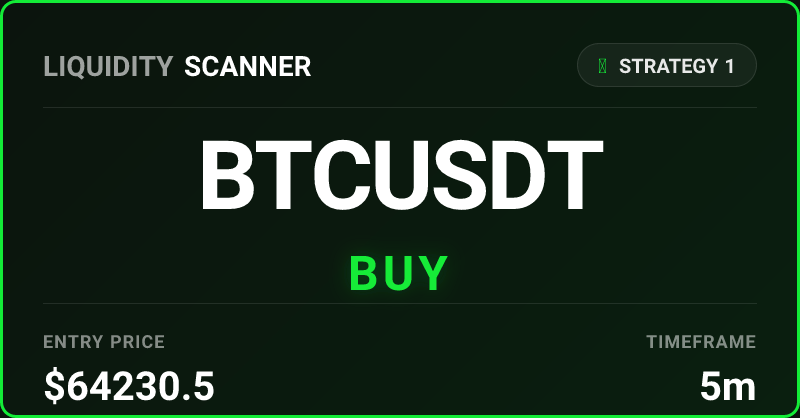
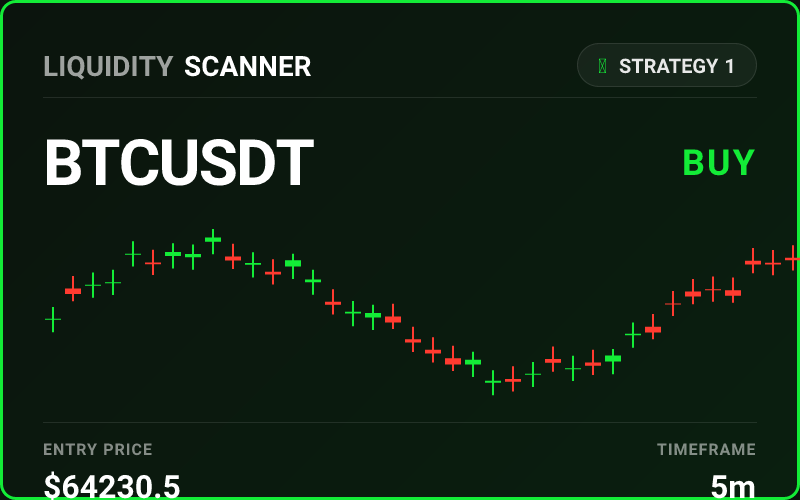
feat: add beautiful dynamic candlestick chart to telegram signal notifications

diff --git a/liquidityscan-web/backend/src/telegram/telegram.service.ts b/liquidityscan-web/backend/src/telegram/telegram.service.ts
@@ -6,6 +6,7 @@ import { html } from 'satori-html';
 import { Resvg } from '@resvg/resvg-js';
 import * as fs from 'fs';
 import * as path from 'path';
+import { CandlesService, CandleDto } from '../candles/candles.service';
 
 @Injectable()
 export class TelegramService implements OnModuleInit, OnModuleDestroy {
@@ -14,7 +15,10 @@ export class TelegramService implements OnModuleInit, OnModuleDestroy {
     private readonly isEnabled: boolean;
     private fontBuffer: Buffer | null = null;
 
-    constructor(private readonly prisma: PrismaService) {
+    constructor(
+        private readonly prisma: PrismaService,
+        private readonly candlesService: CandlesService
+    ) {
         const token = process.env.TELEGRAM_BOT_TOKEN;
         this.isEnabled = !!token;
 
@@ -71,6 +75,42 @@ export class TelegramService implements OnModuleInit, OnModuleDestroy {
         }
     }
 
+    private generateSvgChart(candles: CandleDto[], width: number, height: number, signalColor: string): string {
+        if (!candles || candles.length === 0) return '';
+        const min = Math.min(...candles.map(c => c.low));
+        const max = Math.max(...candles.map(c => c.high));
+        const range = max - min || 1;
+        const padding = range * 0.1;
+        const actualMin = min - padding;
+        const actualMax = max + padding;
+        const actualRange = actualMax - actualMin;
+
+        const candleWidth = width / candles.length;
+        const spacing = candleWidth * 0.2;
+        const rectWidth = candleWidth - spacing;
+
+        let svgHtml = `<svg width="${width}" height="${height}" viewBox="0 0 ${width} ${height}" style="display: flex;">`;
+
+        candles.forEach((c, i) => {
+            const x = i * candleWidth + spacing / 2;
+            const color = c.close >= c.open ? '#13ec37' : '#ff3b30';
+
+            const yHigh = height - ((c.high - actualMin) / actualRange) * height;
+            const yLow = height - ((c.low - actualMin) / actualRange) * height;
+            const yOpen = height - ((c.open - actualMin) / actualRange) * height;
+            const yClose = height - ((c.close - actualMin) / actualRange) * height;
+
+            const rectY = Math.min(yOpen, yClose);
+            const rectH = Math.max(Math.abs(yClose - yOpen), 1);
+
+            svgHtml += `<line x1="${x + rectWidth / 2}" y1="${yHigh}" x2="${x + rectWidth / 2}" y2="${yLow}" stroke="${color}" stroke-width="2" />`;
+            svgHtml += `<rect x="${x}" y="${rectY}" width="${rectWidth}" height="${rectH}" fill="${color}" />`;
+        });
+
+        svgHtml += `</svg>`;
+        return svgHtml;
+    }
+
     /**
      * Generates a beautiful "Trading Card" style image for the signal using Satori & resvg-js.
      */
@@ -87,45 +127,54 @@ export class TelegramService implements OnModuleInit, OnModuleDestroy {
         const color = isBuy ? '#13ec37' : '#ff3b30'; // Primary green / Red
         const bgGradientStart = isBuy ? '#0a1f0f' : '#1f0a0a';
 
-        const markup = html`
-            <div style="display: flex; flex-direction: column; width: 800px; height: 418px; background: linear-gradient(135deg, #0b140d 0%, ${bgGradientStart} 100%); color: white; padding: 40px; font-family: 'Roboto'; border: 2px solid #1f2923; box-sizing: border-box;">
-                <div style="display: flex; justify-content: space-between; align-items: center; border-bottom: 1px solid rgba(255,255,255,0.1); padding-bottom: 20px; width: 100%;">
+        const candles = await this.candlesService.getKlines(symbol, timeframe, 50);
+        const chartHtml = this.generateSvgChart(candles, 800, 200, color);
+
+        const markupHtml = `
+            <div style="display: flex; flex-direction: column; width: 800px; height: 500px; background: linear-gradient(135deg, #0b140d 0%, ${bgGradientStart} 100%); color: white; padding: 40px; font-family: 'Roboto'; border: 3px solid ${color}; box-sizing: border-box; border-radius: 16px;">
+                <div style="display: flex; justify-content: space-between; align-items: center; border-bottom: 1px solid rgba(255,255,255,0.1); padding-bottom: 10px; width: 100%;">
                     <div style="display: flex; align-items: center;">
-                        <span style="font-size: 24px; font-weight: bold; color: rgba(255,255,255,0.6); margin-right: 10px;">LIQUIDITY</span>
-                        <span style="font-size: 24px; font-weight: bold; color: white;">SCANNER</span>
+                        <span style="font-size: 28px; font-weight: bold; color: rgba(255,255,255,0.6); margin-right: 10px;">LIQUIDITY</span>
+                        <span style="font-size: 28px; font-weight: bold; color: white;">SCANNER</span>
                     </div>
-                    <div style="display: flex; align-items: center; background: rgba(255,255,255,0.05); padding: 5px 15px; border-radius: 20px; border: 1px solid rgba(255,255,255,0.1);">
-                        <span style="font-size: 16px; color: ${color}; font-weight: bold; margin-right: 8px;">•</span>
-                        <span style="font-size: 16px; color: rgba(255,255,255,0.8);">${strategyType.replace('_', ' ')}</span>
+                    <div style="display: flex; align-items: center; background: rgba(255,255,255,0.05); padding: 8px 20px; border-radius: 30px; border: 1px solid rgba(255,255,255,0.1);">
+                        <span style="font-size: 20px; color: ${color}; font-weight: bold; margin-right: 12px;">●</span>
+                        <span style="font-size: 20px; color: rgba(255,255,255,0.9);">${strategyType.replace('_', ' ')}</span>
                     </div>
                 </div>
                 
-                <div style="display: flex; flex-direction: column; flex-grow: 1; justify-content: center; align-items: center; width: 100%;">
-                    <div style="display: flex; font-size: 80px; font-weight: bold; letter-spacing: -2px; margin-bottom: 10px; color: white;">
+                <div style="display: flex; justify-content: space-between; align-items: center; width: 100%; margin-top: 20px;">
+                     <div style="display: flex; font-size: 64px; font-weight: bold; letter-spacing: -2px; color: white;">
                         ${symbol}
                     </div>
-                    <div style="display: flex; font-size: 40px; font-weight: bold; color: ${color}; letter-spacing: 2px;">
-                        ${signalType}
+                    <div style="display: flex; font-size: 36px; font-weight: bold; color: ${color}; letter-spacing: 2px;">
+                        ${signalType.replace('_SIGNAL', '')}
                     </div>
                 </div>
 
-                <div style="display: flex; justify-content: space-between; align-items: flex-end; width: 100%; border-top: 1px solid rgba(255,255,255,0.1); padding-top: 20px;">
+                <div style="display: flex; width: 100%; height: 200px; margin-top: 10px;">
+                    ${chartHtml}
+                </div>
+
+                <div style="display: flex; justify-content: space-between; align-items: flex-end; width: 100%; border-top: 1px solid rgba(255,255,255,0.1); padding-top: 15px; margin-top: 10px;">
                     <div style="display: flex; flex-direction: column;">
-                        <span style="font-size: 16px; color: rgba(255,255,255,0.5); margin-bottom: 5px;">ENTRY PRICE</span>
+                        <span style="font-size: 16px; color: rgba(255,255,255,0.5); margin-bottom: 5px; letter-spacing: 1px;">ENTRY PRICE</span>
                         <span style="font-size: 32px; font-weight: bold; color: white;">$${price}</span>
                     </div>
                     <div style="display: flex; flex-direction: column; align-items: flex-end;">
-                        <span style="font-size: 16px; color: rgba(255,255,255,0.5); margin-bottom: 5px;">TIMEFRAME</span>
+                        <span style="font-size: 16px; color: rgba(255,255,255,0.5); margin-bottom: 5px; letter-spacing: 1px;">TIMEFRAME</span>
                         <span style="font-size: 32px; font-weight: bold; color: white;">${timeframe}</span>
                     </div>
                 </div>
             </div>
         `;
 
+        const markup = html(markupHtml as any);
+
         try {
-            const svg = await satori(markup as any, {
+            const svg = await satori(markup, {
                 width: 800,
-                height: 418,
+                height: 500,
                 fonts: [
                     {
                         name: 'Roboto',

diff --git a/liquidityscan-web/backend/test_satori.js b/liquidityscan-web/backend/test_satori.js
@@ -4,6 +4,43 @@ const { Resvg } = require('@resvg/resvg-js');
 const fs = require('fs');
 const path = require('path');
 
+function generateSvgChart(candles, width, height) {
+    if (!candles || candles.length === 0) return '';
+    const min = Math.min(...candles.map(c => c.low));
+    const max = Math.max(...candles.map(c => c.high));
+    const range = max - min || 1;
+    const padding = range * 0.1;
+    const actualMin = min - padding;
+    const actualMax = max + padding;
+    const actualRange = actualMax - actualMin;
+
+    const candleWidth = width / candles.length;
+    const spacing = candleWidth * 0.2;
+    const rectWidth = candleWidth - spacing;
+
+    let svgHtml = `<svg width="${width}" height="${height}" viewBox="0 0 ${width} ${height}" style="display: flex;">`;
+
+    candles.forEach((c, i) => {
+        const x = i * candleWidth + spacing / 2;
+        const color = c.close >= c.open ? '#13ec37' : '#ff3b30';
+
+        const yHigh = height - ((c.high - actualMin) / actualRange) * height;
+        const yLow = height - ((c.low - actualMin) / actualRange) * height;
+        const yOpen = height - ((c.open - actualMin) / actualRange) * height;
+        const yClose = height - ((c.close - actualMin) / actualRange) * height;
+
+        const rectY = Math.min(yOpen, yClose);
+        const rectH = Math.max(Math.abs(yClose - yOpen), 1);
+
+        svgHtml += `<line x1="${x + rectWidth / 2}" y1="${yHigh}" x2="${x + rectWidth / 2}" y2="${yLow}" stroke="${color}" stroke-width="2" />`;
+        svgHtml += `<rect x="${x}" y="${rectY}" width="${rectWidth}" height="${rectH}" fill="${color}" />`;
+    });
+
+    svgHtml += `</svg>`;
+    return svgHtml;
+}
+
+
 async function testCard() {
     const symbol = 'BTCUSDT';
     const strategyType = 'STRATEGY_1';
@@ -11,15 +48,27 @@ async function testCard() {
     const signalType = 'BUY_SIGNAL';
     const price = 64230.5;
 
+    const mockCandles = Array.from({ length: 40 }).map((_, i) => {
+        const base = 64000 + Math.sin(i / 5) * 500 + (Math.random() * 200 - 100);
+        return {
+            open: base,
+            close: base + (Math.random() * 100 - 50),
+            high: base + 100,
+            low: base - 100
+        };
+    });
+
     const fontBuffer = fs.readFileSync(path.join(__dirname, 'src/telegram/Roboto-Bold.ttf'));
 
     const isBuy = signalType.includes('BUY');
     const color = isBuy ? '#13ec37' : '#ff3b30';
     const bgGradientStart = isBuy ? '#0a1f0f' : '#1f0a0a';
 
-    const markup = html`
-        <div style="display: flex; flex-direction: column; width: 800px; height: 418px; background: linear-gradient(135deg, #0b140d 0%, ${bgGradientStart} 100%); color: white; padding: 40px; font-family: 'Roboto'; border: 3px solid ${color}; box-sizing: border-box; border-radius: 16px;">
-            <div style="display: flex; justify-content: space-between; align-items: center; border-bottom: 1px solid rgba(255,255,255,0.1); padding-bottom: 20px; width: 100%;">
+    const chartHtml = generateSvgChart(mockCandles, 800, 200);
+
+    const markupHTML = `
+        <div style="display: flex; flex-direction: column; width: 800px; height: 500px; background: linear-gradient(135deg, #0b140d 0%, ${bgGradientStart} 100%); color: white; padding: 40px; font-family: 'Roboto'; border: 3px solid ${color}; box-sizing: border-box; border-radius: 16px;">
+            <div style="display: flex; justify-content: space-between; align-items: center; border-bottom: 1px solid rgba(255,255,255,0.1); padding-bottom: 10px; width: 100%;">
                 <div style="display: flex; align-items: center;">
                     <span style="font-size: 28px; font-weight: bold; color: rgba(255,255,255,0.6); margin-right: 10px;">LIQUIDITY</span>
                     <span style="font-size: 28px; font-weight: bold; color: white;">SCANNER</span>
@@ -30,31 +79,37 @@ async function testCard() {
                 </div>
             </div>
             
-            <div style="display: flex; flex-direction: column; flex-grow: 1; justify-content: center; align-items: center; width: 100%;">
-                <div style="display: flex; font-size: 96px; font-weight: bold; letter-spacing: -3px; margin-bottom: 5px; color: white;">
+            <div style="display: flex; justify-content: space-between; align-items: center; width: 100%; margin-top: 20px;">
+                 <div style="display: flex; font-size: 64px; font-weight: bold; letter-spacing: -2px; color: white;">
                     ${symbol}
                 </div>
-                <div style="display: flex; font-size: 48px; font-weight: bold; color: ${color}; letter-spacing: 4px; text-shadow: 0 0 20px ${color}40;">
+                <div style="display: flex; font-size: 36px; font-weight: bold; color: ${color}; letter-spacing: 2px;">
                     ${signalType.replace('_SIGNAL', '')}
                 </div>
             </div>
 
-            <div style="display: flex; justify-content: space-between; align-items: flex-end; width: 100%; border-top: 1px solid rgba(255,255,255,0.1); padding-top: 25px;">
+            <div style="display: flex; width: 100%; height: 200px; margin-top: 10px;">
+                ${chartHtml}
+            </div>
+
+            <div style="display: flex; justify-content: space-between; align-items: flex-end; width: 100%; border-top: 1px solid rgba(255,255,255,0.1); padding-top: 15px; margin-top: 10px;">
                 <div style="display: flex; flex-direction: column;">
-                    <span style="font-size: 18px; color: rgba(255,255,255,0.5); margin-bottom: 5px; letter-spacing: 1px;">ENTRY PRICE</span>
-                    <span style="font-size: 40px; font-weight: bold; color: white;">$${price}</span>
+                    <span style="font-size: 16px; color: rgba(255,255,255,0.5); margin-bottom: 5px; letter-spacing: 1px;">ENTRY PRICE</span>
+                    <span style="font-size: 32px; font-weight: bold; color: white;">$${price}</span>
                 </div>
                 <div style="display: flex; flex-direction: column; align-items: flex-end;">
-                    <span style="font-size: 18px; color: rgba(255,255,255,0.5); margin-bottom: 5px; letter-spacing: 1px;">TIMEFRAME</span>
-                    <span style="font-size: 40px; font-weight: bold; color: white;">${timeframe}</span>
+                    <span style="font-size: 16px; color: rgba(255,255,255,0.5); margin-bottom: 5px; letter-spacing: 1px;">TIMEFRAME</span>
+                    <span style="font-size: 32px; font-weight: bold; color: white;">${timeframe}</span>
                 </div>
             </div>
         </div>
     `;
 
+    const markup = html(markupHTML);
+
     const svg = await satori(markup, {
         width: 800,
-        height: 418,
+        height: 500,
         fonts: [
             {
                 name: 'Roboto',

diff --git a/liquidityscan-web/backend/src/telegram/telegram.module.ts b/liquidityscan-web/backend/src/telegram/telegram.module.ts
@@ -1,9 +1,10 @@
 import { Module } from '@nestjs/common';
 import { TelegramService } from './telegram.service';
 import { PrismaModule } from '../prisma/prisma.module'; // Import Prisma to check for subscribers
+import { CandlesModule } from '../candles/candles.module';
 
 @Module({
-    imports: [PrismaModule],
+    imports: [PrismaModule, CandlesModule],
     providers: [TelegramService],
     exports: [TelegramService],
 })
